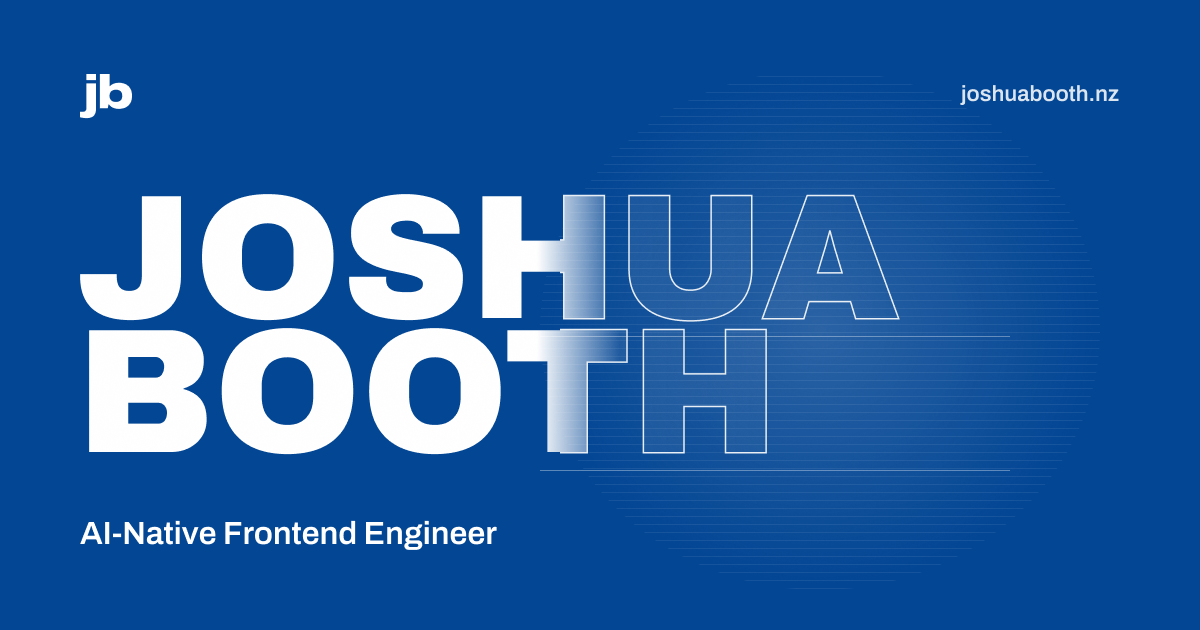
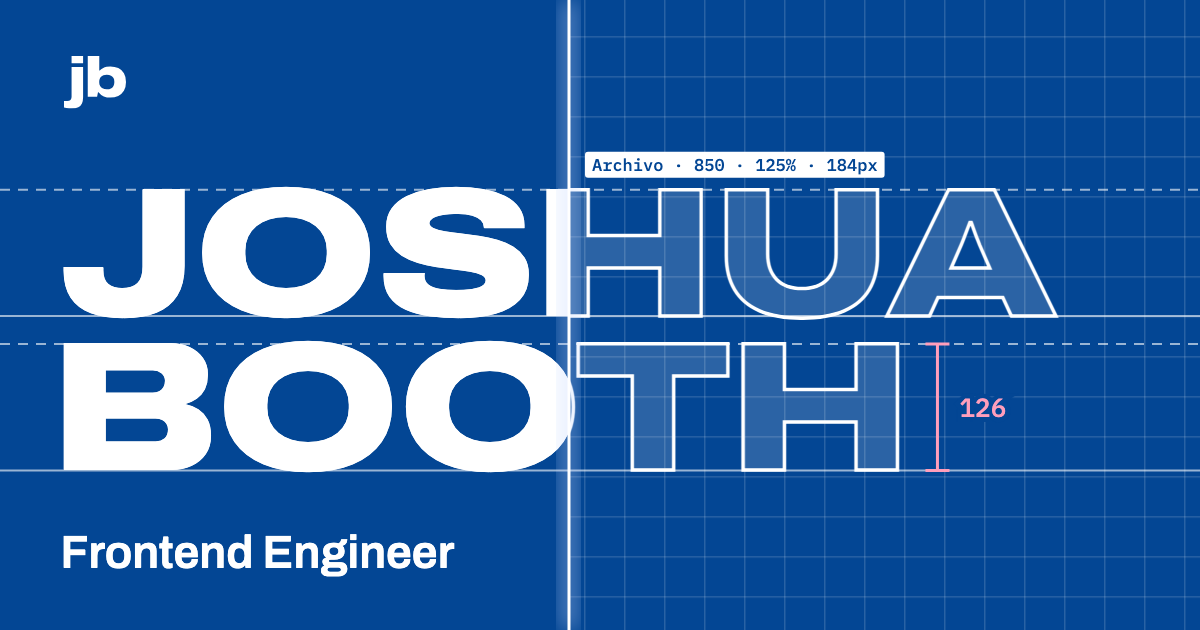
💄 redraw the og image as the name mid-build
Draws the build sweep halfway across the name, with thicker lines and a
bigger byline, so it still reads in LinkedIn's 360px link card. Renders it
from scripts/og/og.html with mise run og instead of editing the PNG.

diff --git a/scripts/og/og.html b/scripts/og/og.html
@@ -1,0 +1,303 @@
+<!doctype html>
+<html lang="en-NZ">
+  <head>
+    <meta charset="utf-8" />
+    <title>Open Graph image</title>
+    <link
+      rel="stylesheet"
+      href="https://fonts.googleapis.com/css2?family=Archivo:wdth,wght@62..125,100..900&family=IBM+Plex+Mono:wght@500&display=block"
+    />
+    <style>
+      html,
+      body {
+        margin: 0;
+        background: #034694;
+      }
+
+      svg {
+        display: block;
+      }
+    </style>
+  </head>
+  <body>
+    <svg id="og" width="1200" height="630" viewBox="0 0 1200 630"></svg>
+    <script type="module">
+      const W = 1200;
+      const H = 630;
+      const MARGIN = 64;
+      const BYLINE = "Frontend Engineer";
+
+      const GROUND = "#034694";
+      const INK = "#fff";
+      const MEASURE = "#ff9ebb";
+      const DISPLAY = "Archivo";
+      const MONO = '"IBM Plex Mono"';
+
+      await document.fonts.load(`850 100px ${DISPLAY}`);
+      await document.fonts.load(`600 46px ${DISPLAY}`);
+      await document.fonts.load(`500 26px ${MONO}`);
+
+      const ctx = document.createElement("canvas").getContext("2d");
+
+      // Ink box of a string, so edges and guides sit on the letters themselves
+      function ink(
+        text,
+        { size, weight, stretch = "normal", tracking = 0, family = DISPLAY }
+      ) {
+        ctx.font = `${weight} ${size}px ${family}`;
+        ctx.fontStretch = stretch;
+        ctx.letterSpacing = `${tracking * size}px`;
+
+        const m = ctx.measureText(text);
+
+        return {
+          left: -m.actualBoundingBoxLeft,
+          right: m.actualBoundingBoxRight,
+          ascent: m.actualBoundingBoxAscent,
+          advance: m.width,
+        };
+      }
+
+      // The name, sized so the longer line spans the page
+      const name = { weight: 850, stretch: "expanded", tracking: -0.02 };
+      const probe = ink("JOSHUA", { ...name, size: 100 });
+      const size = (100 * (W - 2 * MARGIN - 80)) / (probe.right - probe.left);
+      const display = { ...name, size };
+      const cap = ink("H", display).ascent;
+
+      const byline = { size: 46, weight: 600 };
+      const bylineBase = H - MARGIN + 2;
+      const secondBase = bylineBase - ink("F", byline).ascent - 66;
+      const firstBase = secondBase - 0.84 * size;
+
+      const [first, second] = [
+        { text: "JOSHUA", base: firstBase },
+        { text: "BOOTH", base: secondBase },
+      ].map((line) => {
+        const box = ink(line.text, display);
+
+        return {
+          ...line,
+          x: MARGIN - box.left,
+          right: MARGIN + box.right - box.left,
+          top: line.base - cap,
+        };
+      });
+
+      // The build sweep has reached the T, so JOSH and BOO are finished and the rest is still drawn
+      const seam = second.x + ink("BOO", display).advance - 10;
+
+      const svg = document.getElementById("og");
+
+      function el(tag, attrs, parent = svg) {
+        const node = document.createElementNS(
+          "http://www.w3.org/2000/svg",
+          tag
+        );
+
+        for (const [k, v] of Object.entries(attrs)) node.setAttribute(k, v);
+
+        parent.append(node);
+
+        return node;
+      }
+
+      function text(content, attrs, parent = svg) {
+        el("text", attrs, parent).textContent = content;
+      }
+
+      function nameLine(line, attrs, parent) {
+        text(
+          line.text,
+          {
+            x: line.x,
+            y: line.base,
+            style: `font: ${name.weight} ${size}px ${DISPLAY}; font-stretch: 125%; letter-spacing: ${name.tracking}em`,
+            ...attrs,
+          },
+          parent
+        );
+      }
+
+      function region(id, x, width) {
+        el("clipPath", { id }, defs).append(
+          el("rect", { x, y: 0, width, height: H }, defs)
+        );
+
+        return `url(#${id})`;
+      }
+
+      const defs = el("defs", {});
+      const grid = el(
+        "pattern",
+        {
+          id: "grid",
+          x: MARGIN,
+          y: firstBase,
+          width: 40,
+          height: 40,
+          patternUnits: "userSpaceOnUse",
+        },
+        defs
+      );
+
+      el(
+        "rect",
+        { width: 40, height: 1.5, fill: "rgba(255, 255, 255, 0.15)" },
+        grid
+      );
+      el(
+        "rect",
+        { width: 1.5, height: 40, fill: "rgba(255, 255, 255, 0.15)" },
+        grid
+      );
+      el(
+        "feGaussianBlur",
+        { stdDeviation: 10 },
+        el("filter", { id: "blur", x: "-50%", width: "200%" }, defs)
+      );
+
+      const ahead = region("ahead", seam, W - seam);
+      const behind = region("behind", 0, seam);
+
+      el("rect", { width: W, height: H, fill: GROUND });
+      el("rect", {
+        width: W,
+        height: H,
+        fill: "url(#grid)",
+        "clip-path": ahead,
+      });
+
+      // Guides on each line's baseline and cap height, under the letters
+      for (const line of [first, second]) {
+        const stroke = "rgba(255, 255, 255, 0.6)";
+
+        el("line", {
+          x1: 0,
+          x2: W,
+          y1: line.base,
+          y2: line.base,
+          stroke,
+          "stroke-width": 2,
+        });
+        el("line", {
+          x1: 0,
+          x2: W,
+          y1: line.top,
+          y2: line.top,
+          stroke,
+          "stroke-width": 2,
+          "stroke-dasharray": "10 8",
+        });
+      }
+
+      const drawn = el("g", { "clip-path": ahead });
+      const built = el("g", { "clip-path": behind });
+
+      for (const line of [first, second]) {
+        nameLine(
+          line,
+          {
+            fill: "rgba(255, 255, 255, 0.16)",
+            stroke: INK,
+            "stroke-width": 3.5,
+            "stroke-linejoin": "miter",
+          },
+          drawn
+        );
+        nameLine(line, { fill: INK }, built);
+      }
+
+      // The second line's cap height, measured
+      const mx = second.right + 40;
+
+      el("path", {
+        d: `M${mx} ${second.top}V${second.base}M${mx - 12} ${second.top}H${mx + 12}M${mx - 12} ${second.base}H${mx + 12}`,
+        stroke: MEASURE,
+        "stroke-width": 3,
+        fill: "none",
+      });
+      text(Math.round(cap), {
+        x: mx + 22,
+        y: second.base - cap / 2,
+        "dominant-baseline": "central",
+        fill: MEASURE,
+        stroke: GROUND,
+        "stroke-width": 10,
+        "paint-order": "stroke",
+        style: `font: 500 26px ${MONO}`,
+      });
+
+      // The spec chip, on the drawn side of the edge
+      const spec = `Archivo · 850 · 125% · ${Math.round(size)}px`;
+      const chip = { size: 17, padX: 7, height: 26 };
+      const chipWidth =
+        ink(spec, { size: chip.size, weight: 500, family: MONO }).advance +
+        2 * chip.padX;
+      const chipX = seam + 16;
+      const chipY = first.top - 12 - chip.height;
+
+      el("rect", {
+        x: chipX,
+        y: chipY,
+        width: chipWidth,
+        height: chip.height,
+        rx: 3,
+        fill: INK,
+      });
+      text(spec, {
+        x: chipX + chip.padX,
+        y: chipY + chip.height / 2,
+        "dominant-baseline": "central",
+        fill: GROUND,
+        style: `font: 500 ${chip.size}px ${MONO}`,
+      });
+
+      // The sweep's edge, glowing like the one on the home page
+      el("rect", {
+        x: seam - 6,
+        y: 0,
+        width: 12,
+        height: H,
+        fill: "rgba(190, 210, 255, 0.6)",
+        filter: "url(#blur)",
+      });
+      el("rect", { x: seam - 1.5, y: 0, width: 3, height: H, fill: INK });
+
+      // The jb mark, copied from src/shared/ui/jb-mark.tsx
+      const mark = el("svg", {
+        x: MARGIN,
+        y: MARGIN - 8,
+        width: 62,
+        height: (62 * 932.3) / 1099.4,
+        viewBox: "-71.7 -724.8 1099.4 932.3",
+        fill: INK,
+      });
+
+      el(
+        "path",
+        {
+          d: "M62.5 -595.3V-724.8H266.9V-595.3ZM60 207.5Q41 207.5 17.2 205.3Q-6.7 203.1 -29.9 198.9Q-53 194.7 -71.7 189.7V74.3H-14Q23.3 74.3 42.9 54.5Q62.5 34.7 62.5 3V-527.8H266.9V6Q266.9 71.4 246.9 116.4Q226.8 161.4 181.6 184.4Q136.3 207.5 60 207.5Z",
+        },
+        mark
+      );
+      el(
+        "path",
+        {
+          d: "M460.7 12Q401.3 12 347.2 -8.7Q293 -29.5 252.9 -82.2H244.2L228.3 0H62.5V-724.8H266.9V-467.7H275.4Q298.2 -493.7 330 -509.7Q361.7 -525.6 396.7 -532.7Q431.6 -539.8 462.8 -539.8Q541.5 -539.8 604.3 -510.2Q667 -480.5 703.9 -419.5Q740.7 -358.5 740.7 -263.8Q740.7 -169.5 703.8 -108.3Q666.8 -47.2 603.6 -17.6Q540.4 12 460.7 12ZM399.5 -134.9Q445.1 -134.9 474.7 -150.4Q504.4 -166 518.9 -193.5Q533.4 -220.9 533.4 -255.2V-272.5Q533.4 -306.9 518.9 -333.8Q504.4 -360.8 475 -376.8Q445.5 -392.9 399.9 -392.9Q365.6 -392.9 340.3 -383.2Q315.1 -373.4 298.5 -356.6Q281.9 -339.8 273.9 -317Q265.9 -294.2 265.9 -267V-260.5Q265.9 -225.2 280.1 -196.5Q294.3 -167.8 324.1 -151.3Q353.9 -134.9 399.5 -134.9Z",
+          transform: "translate(287 0)",
+        },
+        mark
+      );
+
+      text(BYLINE, {
+        x: MARGIN - ink(BYLINE, byline).left,
+        y: bylineBase,
+        fill: INK,
+        style: `font: ${byline.weight} ${byline.size}px ${DISPLAY}`,
+      });
+
+      document.body.dataset.ready = "true";
+    </script>
+  </body>
+</html>

diff --git a/src/shared/lib/page-metadata.ts b/src/shared/lib/page-metadata.ts
@@ -9,7 +9,7 @@ const IMAGE = {
   url: "/og.png",
   width: 1200,
   height: 630,
-  alt: "Joshua Booth in large white capitals on blue. A pool of light over the right-hand letters shows them in outline on lined paper. Below: AI-Native Frontend Engineer.",
+  alt: "Joshua Booth in large white capitals on blue, half built. Left of a glowing vertical line the letters are solid. To its right they're outlines on a grid, with a type spec label and a pink measurement. Guide lines run along both lines of the name. Below: Frontend Engineer.",
 };
 
 /**

diff --git a/scripts/og/render.ts b/scripts/og/render.ts
@@ -1,0 +1,17 @@
+import { chromium } from "playwright";
+
+const out = process.argv[2] ?? "public/og.png";
+
+const browser = await chromium.launch();
+
+const page = await browser.newPage({
+  viewport: { width: 1200, height: 630 },
+  deviceScaleFactor: 1,
+});
+
+await page.goto(new URL("og.html", import.meta.url).href);
+await page.waitForFunction(() => document.body.dataset.ready === "true");
+await page.screenshot({ path: out });
+await browser.close();
+
+console.log(`Wrote ${out}`);

diff --git a/knip.config.ts b/knip.config.ts
@@ -1,7 +1,7 @@
 import type { KnipConfig } from "knip";
 
 const config: KnipConfig = {
-  entry: ["scripts/audit/*.ts", "mdx-components.tsx"],
+  entry: ["scripts/audit/*.ts", "scripts/og/*.ts", "mdx-components.tsx"],
   project: ["{app,src,scripts}/**/*.{ts,tsx,mdx}"],
   ignoreDependencies: [
     // Loaded by name from configs knip doesn't read
